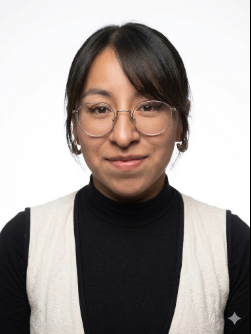
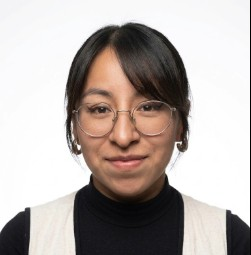
mejoras

diff --git a/agendar.html b/agendar.html
@@ -1,4 +1,4 @@
-content = """<!DOCTYPE html>
+<!DOCTYPE html>
 <html lang="es">
 <head>
     <meta charset="UTF-8">
